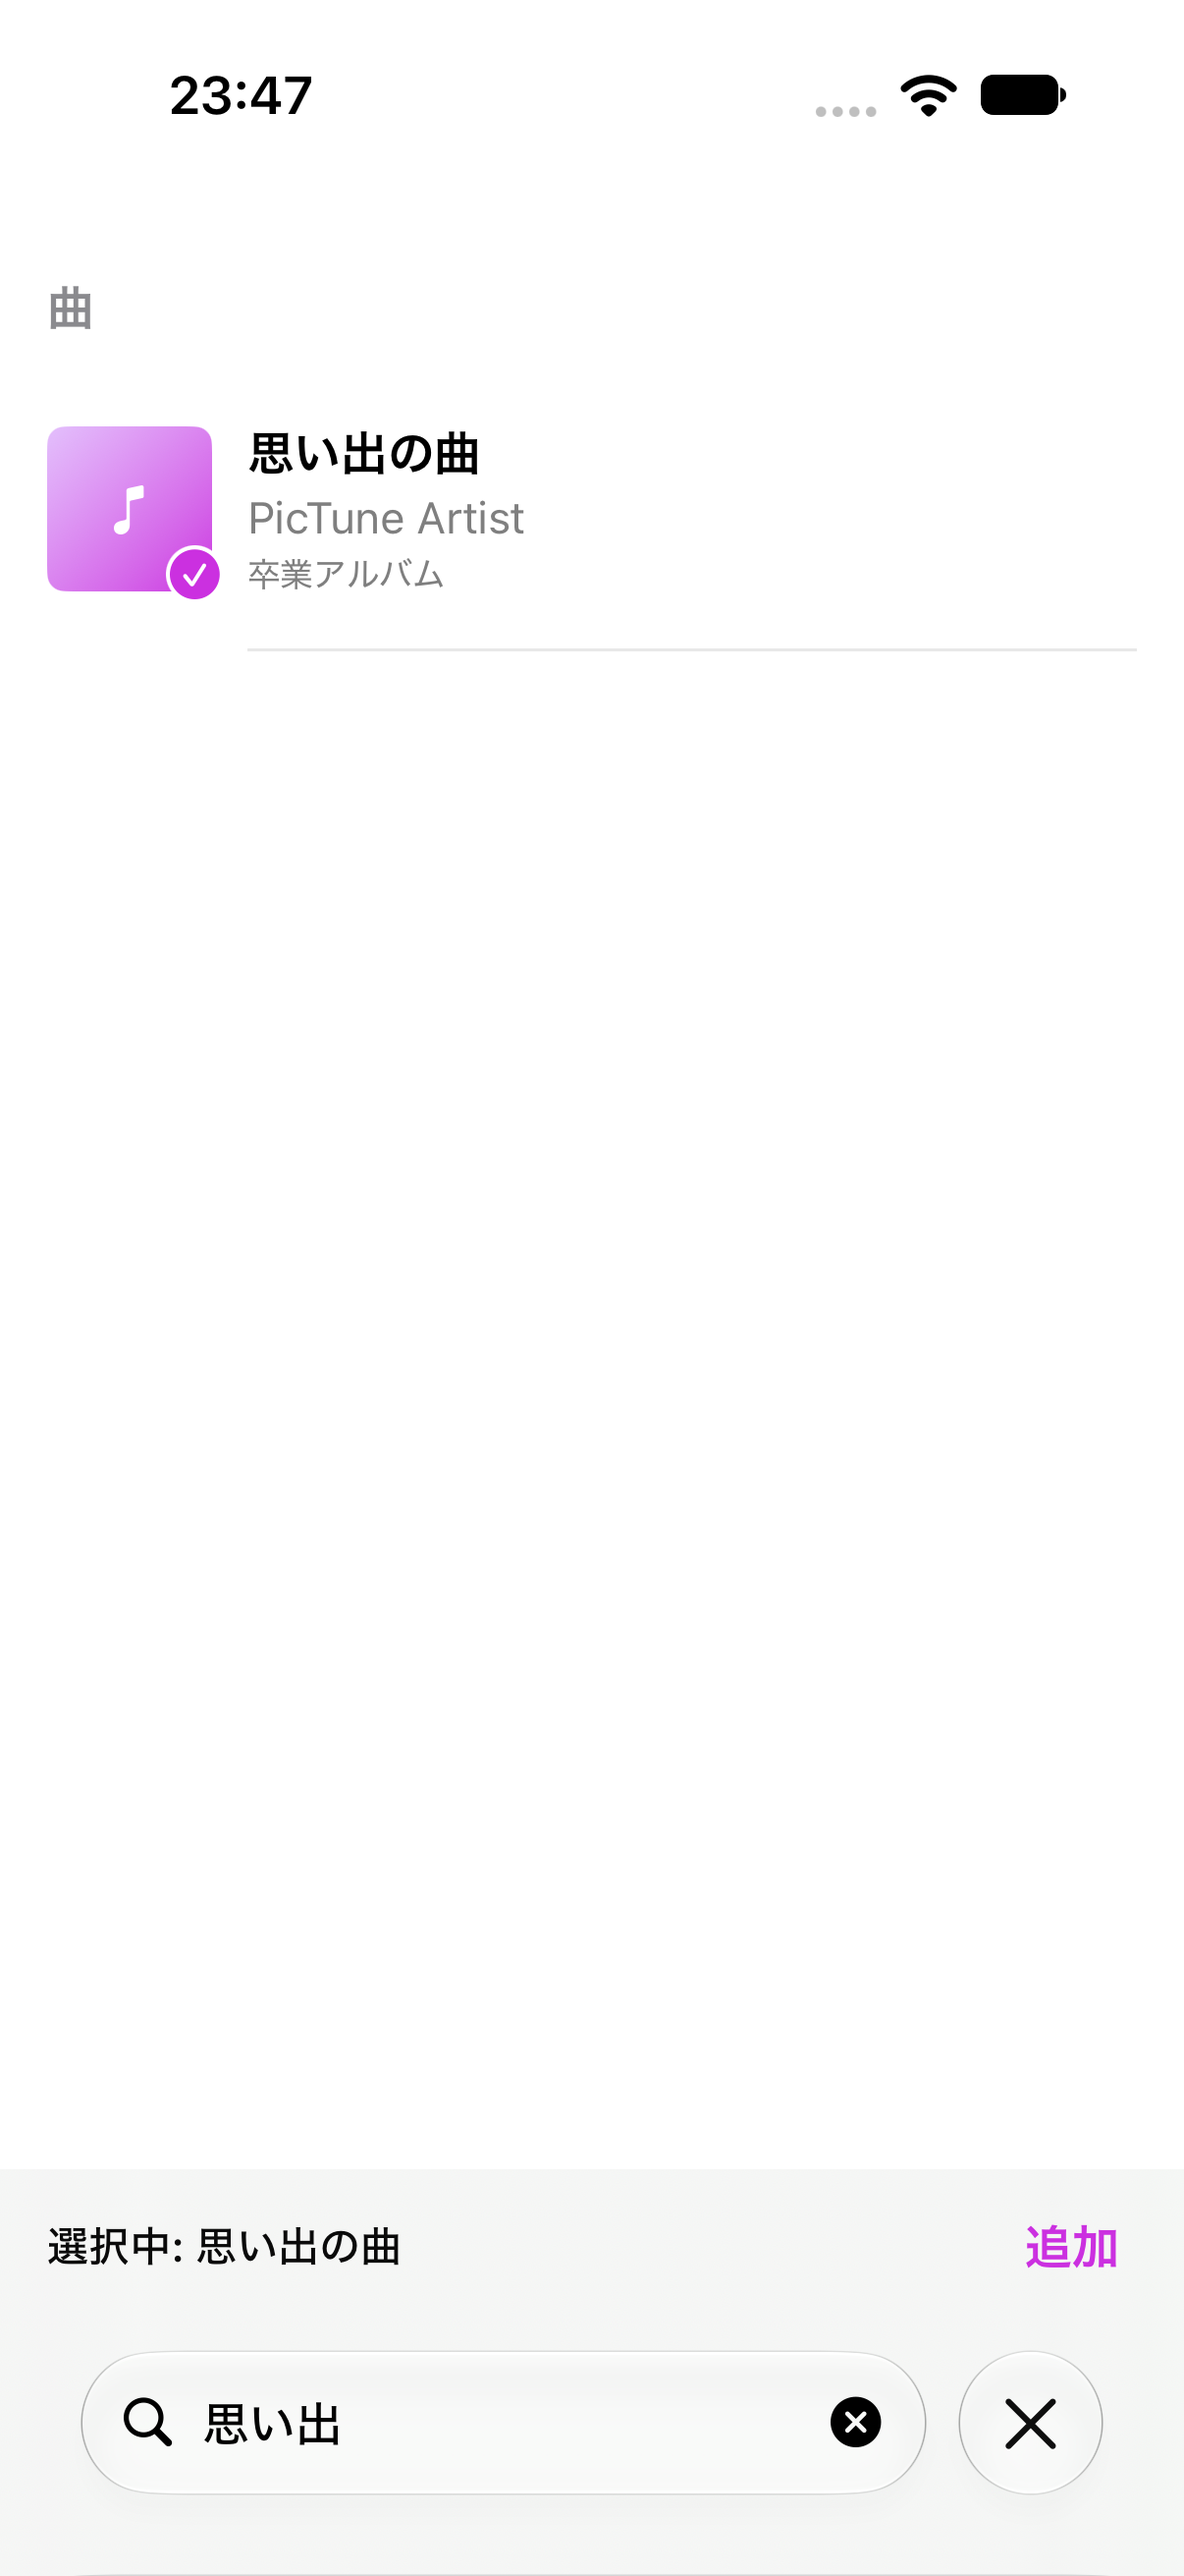
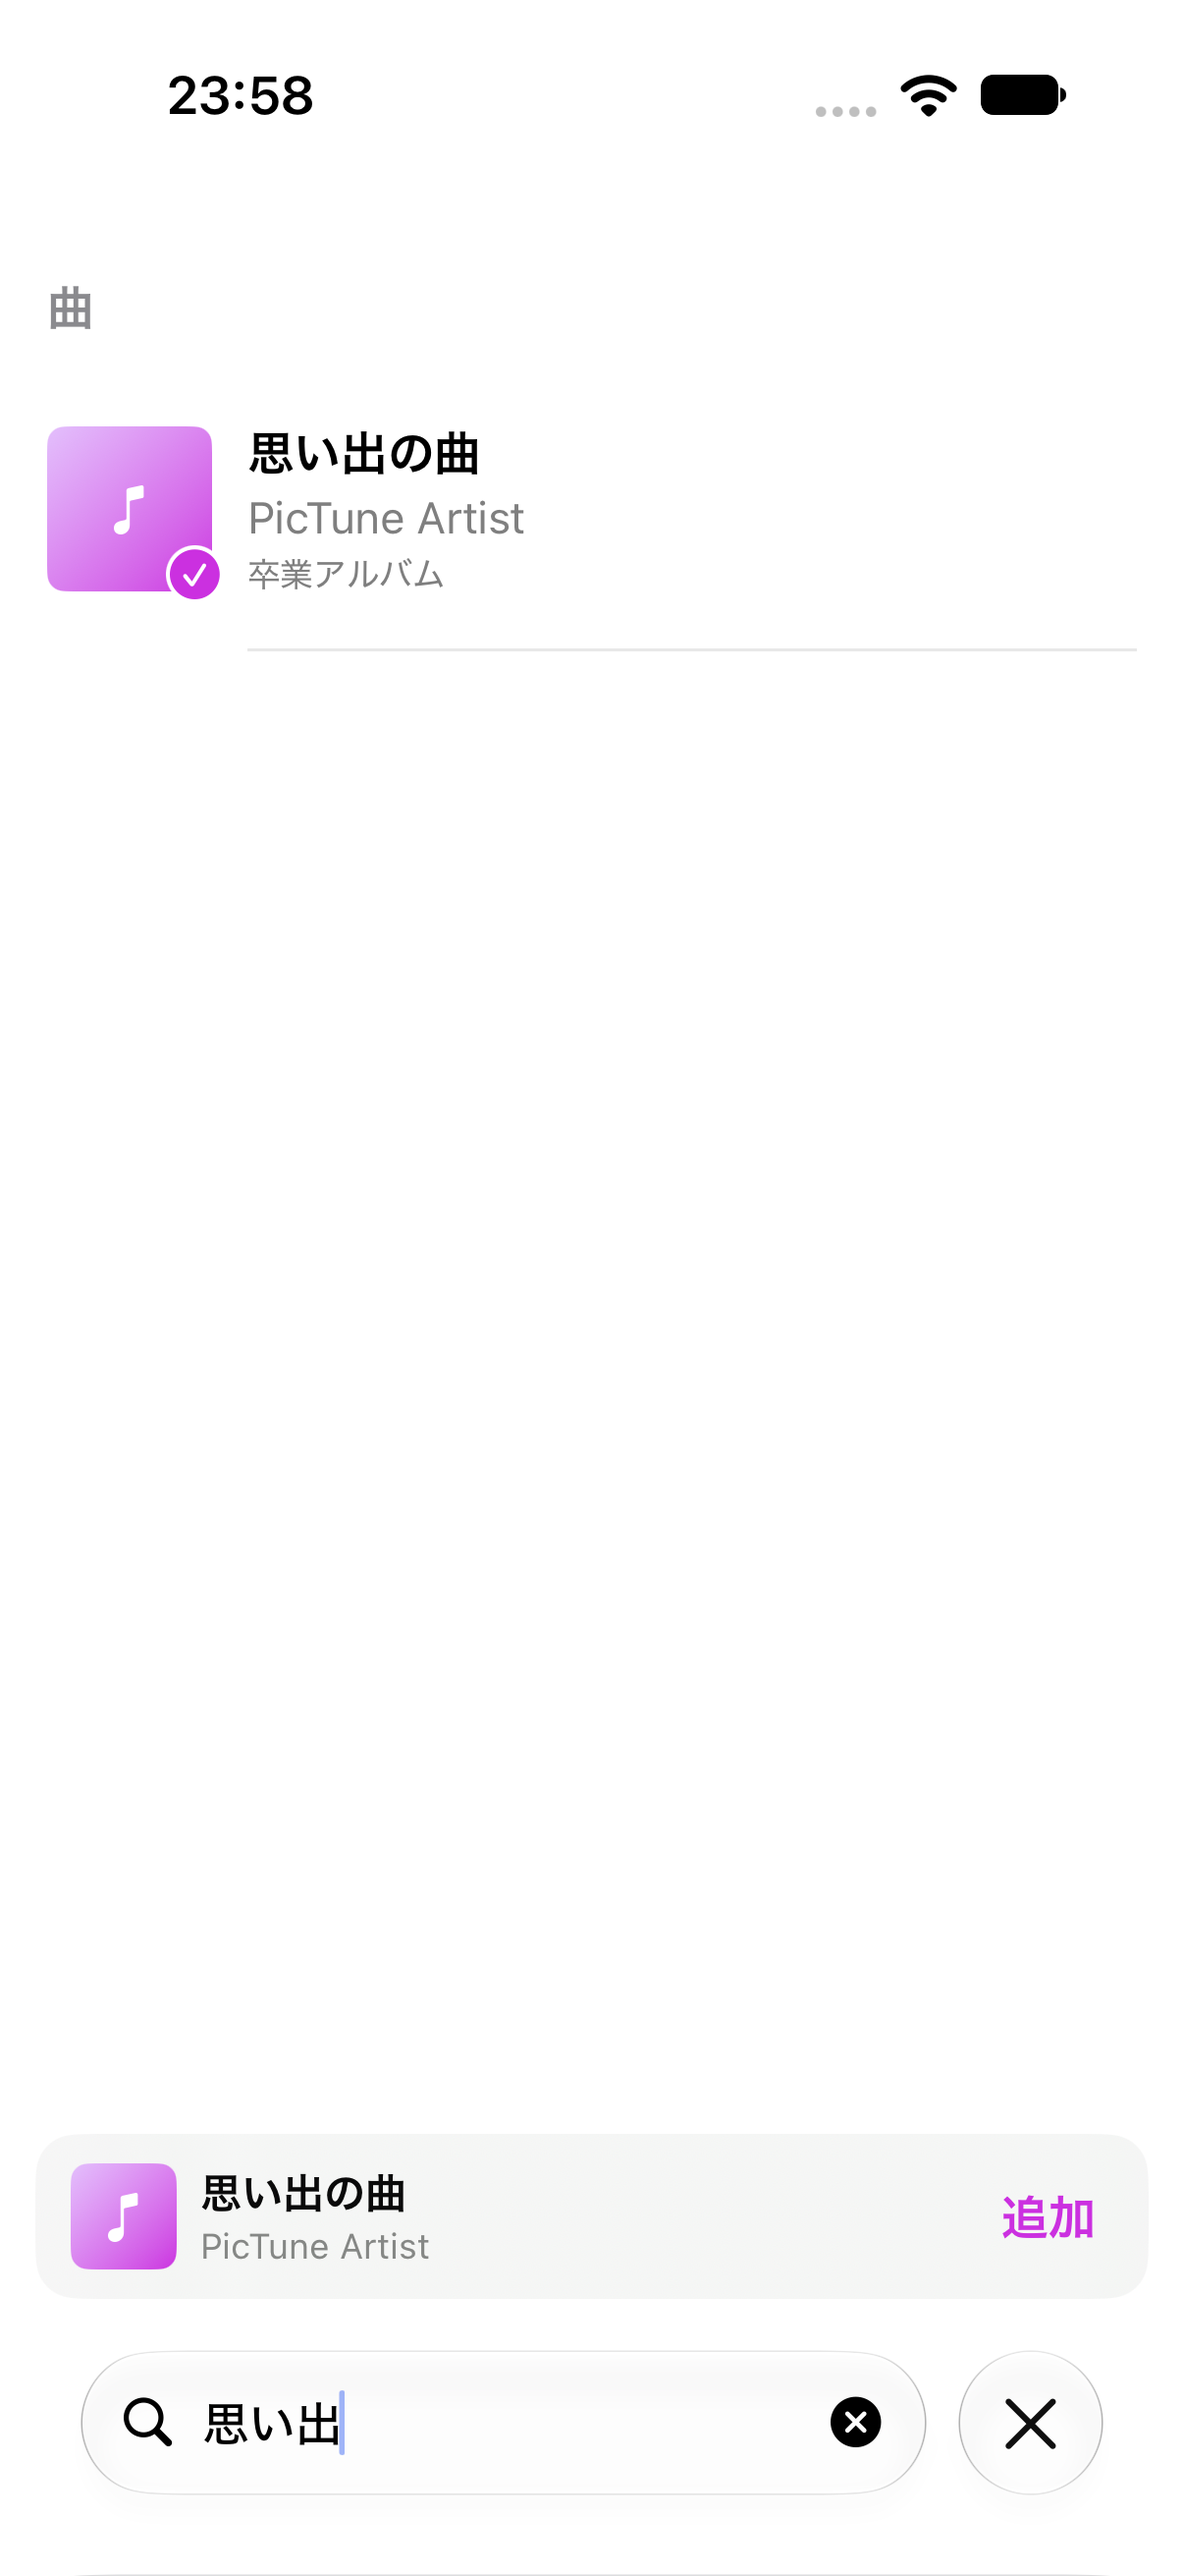
refine: use compact music selection bar

diff --git a/sotsugyoUITests/sotsugyoUITests.swift b/sotsugyoUITests/sotsugyoUITests.swift
@@ -27,13 +27,14 @@ final class sotsugyoUITests: XCTestCase {
         XCTAssertTrue(app.staticTexts["Entropy"].firstMatch.waitForExistence(timeout: 5))
         XCTAssertTrue(app.links["Apple Musicで聴く"].isHittable)
         app.staticTexts["Entropy"].firstMatch.tap()
-        XCTAssertTrue(app.staticTexts["選択中: Entropy"].waitForExistence(timeout: 3))
+        XCTAssertTrue(app.descendants(matching: .any)["music.selection"].waitForExistence(timeout: 3))
+        XCTAssertEqual(app.descendants(matching: .any)["music.selection"].label, "選択中の曲: Entropy、Beach Bunny")
         attachScreenshot("Apple Music検索と選択")
         XCTAssertTrue(app.buttons["music.add"].isHittable, "追加ボタンは検索欄の編集中も表示される")
         search.tap()
         search.typeText(String(repeating: XCUIKeyboardKey.delete.rawValue, count: 10) + "none")
         XCTAssertTrue(app.staticTexts["曲が見つかりません"].waitForExistence(timeout: 5))
-        XCTAssertTrue(app.staticTexts["選択中: Entropy"].exists, "Selection should survive an empty result")
+        XCTAssertTrue(app.descendants(matching: .any)["music.selection"].exists, "Selection should survive an empty result")
         search.typeText(String(repeating: XCUIKeyboardKey.delete.rawValue, count: 10) + "error")
         XCTAssertTrue(app.staticTexts["設定アプリでPicTuneの「メディアとApple Music」へのアクセスを許可してください。"].waitForExistence(timeout: 5))
         attachScreenshot("Apple Music認可エラー")
@@ -244,7 +245,8 @@ final class sotsugyoUITests: XCTestCase {
         XCTAssertTrue(app.staticTexts["思い出の曲"].waitForExistence(timeout: 10))
         capture("16-music-search-results", app: app)
         app.buttons.containing(.staticText, identifier: "思い出の曲").firstMatch.tap()
-        XCTAssertTrue(app.staticTexts["選択中: 思い出の曲"].waitForExistence(timeout: 5))
+        XCTAssertTrue(app.descendants(matching: .any)["music.selection"].waitForExistence(timeout: 5))
+        XCTAssertEqual(app.descendants(matching: .any)["music.selection"].label, "選択中の曲: 思い出の曲、PicTune Artist")
         XCTAssertTrue(app.buttons["music.add"].isHittable)
         app.searchFields.firstMatch.tap()
         XCTAssertTrue(app.keyboards.firstMatch.waitForExistence(timeout: 5))

diff --git a/sotsugyo/View/SearchMusicView.swift b/sotsugyo/View/SearchMusicView.swift
@@ -32,10 +32,18 @@ struct SearchView: View {
         .safeAreaInset(edge: .bottom, spacing: 0) {
             HStack(spacing: 12) {
                 if let track = viewModel.selection {
-                    Text("選択中: \(track.name)")
-                        .font(.subheadline.weight(.medium))
-                        .lineLimit(1)
+                    HStack(spacing: 8) {
+                        MusicArtwork(track: track, size: 36)
+                        VStack(alignment: .leading, spacing: 2) {
+                            Text(track.name).font(.subheadline.weight(.semibold)).lineLimit(1)
+                            Text(track.artist).font(.caption).foregroundStyle(.secondary).lineLimit(1)
+                        }
                         .frame(maxWidth: .infinity, alignment: .leading)
+                    }
+                    .frame(maxWidth: .infinity, alignment: .leading)
+                    .accessibilityElement(children: .ignore)
+                    .accessibilityLabel("選択中の曲: \(track.name)、\(track.artist)")
+                    .accessibilityIdentifier("music.selection")
                 } else {
                     Text("曲を選択してください")
                         .font(.subheadline)
@@ -56,9 +64,11 @@ struct SearchView: View {
                 .accessibilityIdentifier("music.add")
                 .accessibilityHint("選択した曲を写真に追加して、写真編集に戻ります")
             }
-            .padding(.horizontal, 16)
-            .padding(.vertical, 4)
-            .background(.regularMaterial)
+            .padding(.horizontal, 12)
+            .padding(.vertical, 6)
+            .background(.regularMaterial, in: RoundedRectangle(cornerRadius: 14))
+            .padding(.horizontal, 12)
+            .padding(.bottom, 8)
         }
         .tint(musicAccent)
         .navigationTitle("音楽を追加")
